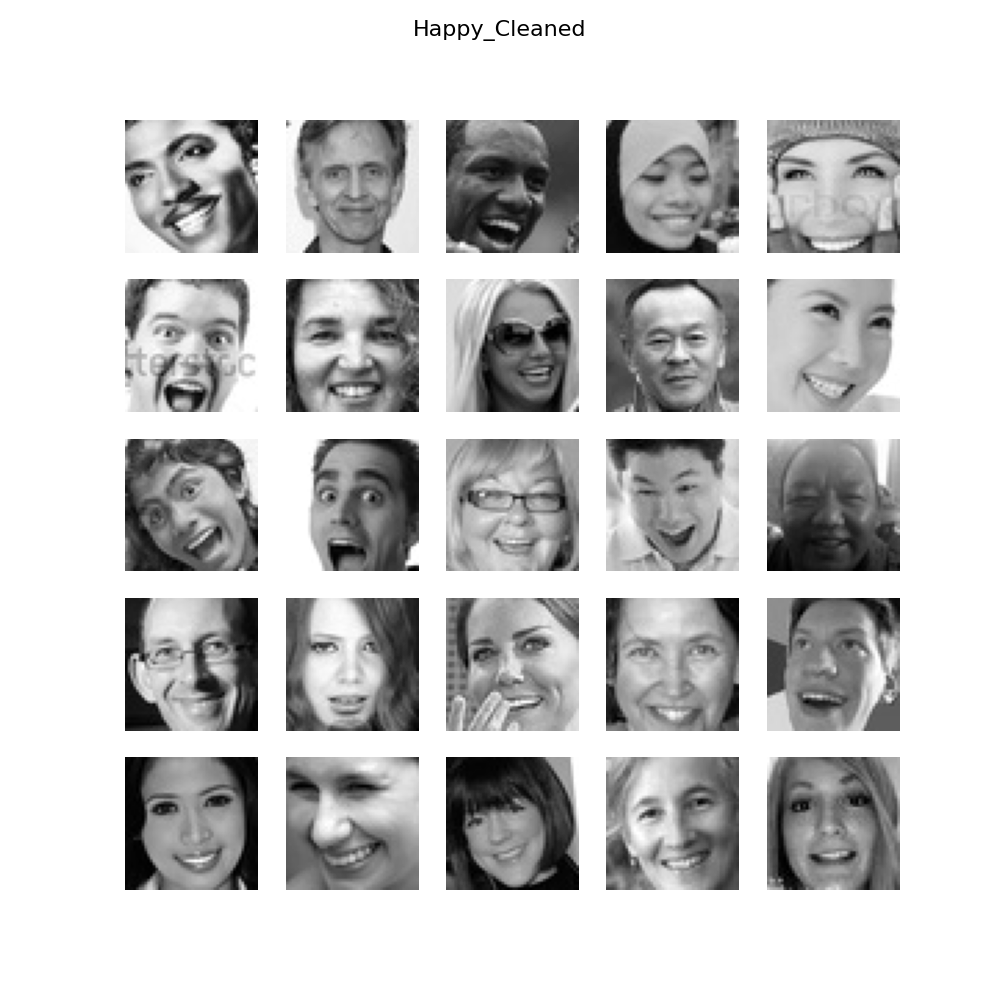
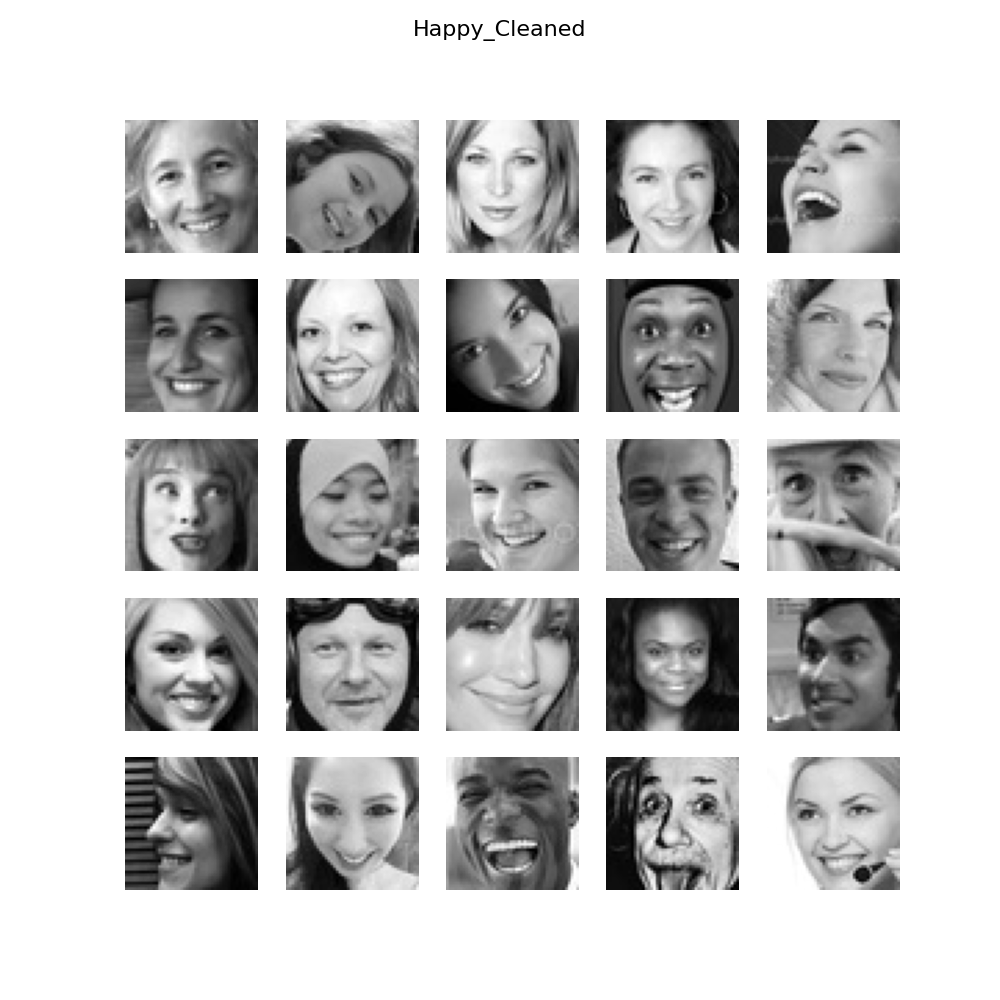
added new grid images and file conttaining the image names used in each grid.

diff --git a/visulaization_sample_images.py b/visulaization_sample_images.py
@@ -12,6 +12,7 @@ emotions = [folder for folder in os.listdir(data_dir) if os.path.isdir(os.path.j
 
 # Function to display a grid of 25 images
 def display_images(emotion):
+    print("---")
     plt.figure(figsize=(10, 10))
     plt.suptitle(emotion, fontsize=16)
     image_files = os.listdir(os.path.join(data_dir, emotion))
@@ -19,6 +20,7 @@ def display_images(emotion):
     for i in range(25):
         plt.subplot(5, 5, i + 1)
         img = mpimg.imread(os.path.join(data_dir, emotion, selected_images[i]))
+        print(selected_images[i])
         plt.imshow(img, cmap='gray')
         plt.axis('off')
     plt.savefig(os.path.join(os.getcwd(), f"{emotion}_grid.png"))  # Save the grid
